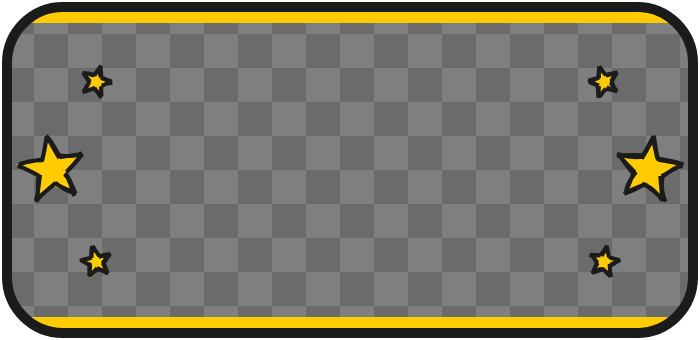
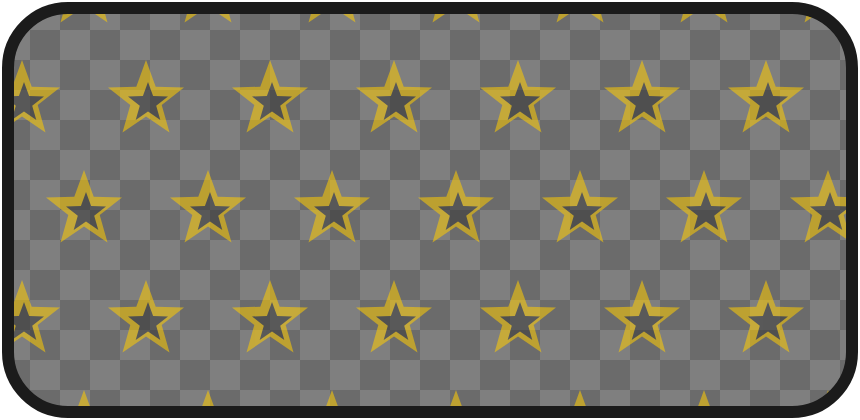
Bulletin: BCT badge with a star grid, sized for the longer countdown line
Claude-Session: https://claude.ai/code/session_01Fhrc3njGf4vqRLHJnLcqDJ

diff --git a/bulletin/bg/bct.html b/bulletin/bg/bct.html
@@ -1,28 +1,31 @@
 <!doctype html><html><head><meta charset="utf-8">
-<style>html,body{margin:0;background:transparent}svg{display:block}</style>
-<script src="node_modules/roughjs/bundled/rough.js"></script></head><body>
-<svg id="s" xmlns="http://www.w3.org/2000/svg" width="700" height="340" viewBox="0 0 700 340"></svg>
+<style>@font-face{font-family:LG;src:url(node_modules/@fontsource/luckiest-guy/files/luckiest-guy-latin-400-normal.woff2)}
+html,body{margin:0;background:transparent}svg{display:block}
+#t{position:absolute;left:0;top:0;width:860px;height:420px;box-sizing:border-box;padding:40px;display:none;flex-direction:column;justify-content:center;align-items:center;font-family:LG;line-height:0.95*1.2;text-align:center}
+</style></head><body>
+<svg id="s" xmlns="http://www.w3.org/2000/svg" width="860" height="420" viewBox="0 0 860 420"></svg>
+<div id="t"><div style="font-size:66.7px;color:#fff;line-height:1.1">LEWIS LEAVES FOR<br>BASIC TRAINING IN</div><div style="font-size:133px;color:#FFCC01;line-height:1.1">66 DAYS</div></div>
 <script>
-const NS='http://www.w3.org/2000/svg', svg=document.getElementById('s'), rc=rough.svg(svg);
+const NS='http://www.w3.org/2000/svg', svg=document.getElementById('s');
 const el=(n,a)=>{const e=document.createElementNS(NS,n);for(const k in a)e.setAttribute(k,a[k]);return e;};
-const W=700,H=340,R=56,IN=7;
+const W=860,H=420,R=60,IN=8;
 const defs=el('defs',{}); svg.appendChild(defs);
 const cp=el('clipPath',{id:'c'}); cp.appendChild(el('rect',{x:IN,y:IN,width:W-2*IN,height:H-2*IN,rx:R})); defs.appendChild(cp);
-const pat=el('pattern',{id:'chk',width:68,height:68,patternUnits:'userSpaceOnUse'});
-pat.appendChild(el('rect',{width:68,height:68,fill:'#000','fill-opacity':0.5}));
-pat.appendChild(el('rect',{width:34,height:34,fill:'#000','fill-opacity':0.16}));
-pat.appendChild(el('rect',{x:34,y:34,width:34,height:34,fill:'#000','fill-opacity':0.16}));
+const S=60; const pat=el('pattern',{id:'chk',width:S,height:S,patternUnits:'userSpaceOnUse'});
+pat.appendChild(el('rect',{width:S,height:S,fill:'#000','fill-opacity':0.5}));
+pat.appendChild(el('rect',{width:S/2,height:S/2,fill:'#000','fill-opacity':0.16}));
+pat.appendChild(el('rect',{x:S/2,y:S/2,width:S/2,height:S/2,fill:'#000','fill-opacity':0.16}));
 defs.appendChild(pat);
 const g=el('g',{'clip-path':'url(#c)'}); svg.appendChild(g);
 g.appendChild(el('rect',{x:0,y:0,width:W,height:H,fill:'url(#chk)'}));
-// gold stripe top and bottom
-g.appendChild(el('rect',{x:0,y:IN,width:W,height:16,fill:'#FFCC01'}));
-g.appendChild(el('rect',{x:0,y:H-IN-16,width:W,height:16,fill:'#FFCC01'}));
-let seed=9; const rnd=()=>{seed=(seed*16807)%2147483647;return (seed-1)/2147483646;};
-function star(cx,cy,r,rot){const p=[];for(let i=0;i<10;i++){const rr=i%2?r*0.42:r,a=-Math.PI/2+rot+i*Math.PI/5;p.push([cx+Math.cos(a)*rr,cy+Math.sin(a)*rr]);}
-  svg.appendChild(rc.polygon(p,{fill:'#FFCC01',fillStyle:'solid',stroke:'#1b1b1b',strokeWidth:4,roughness:1.1,seed:Math.floor(rnd()*1e4)}));}
-star(52,170,34,-0.15); star(648,170,34,0.15);
-star(96,82,16,0.3); star(604,82,16,-0.3); star(96,262,16,-0.2); star(604,262,16,0.2);
-svg.appendChild(el('rect',{x:IN,y:IN,width:W-2*IN,height:H-2*IN,rx:R,fill:'none',stroke:'#1b1b1b','stroke-width':10}));
+const pts=(cx,cy,r,ir)=>{let p=[];for(let i=0;i<10;i++){const rr=i%2?ir:r,a=-Math.PI/2+i*Math.PI/5;p.push((cx+Math.cos(a)*rr).toFixed(1)+','+(cy+Math.sin(a)*rr).toFixed(1));}return p.join(' ');};
+const stars=el('g',{opacity:0.55}); g.appendChild(stars);
+const dx=124, dy=110;
+for(let row=0;row<5;row++){ const y=-10+row*dy; const off=row%2?dx/2:0;
+  for(let x=-40+off;x<W+60;x+=dx){
+    stars.appendChild(el('polygon',{points:pts(x,y,40,16.5),fill:'#FFCC01'}));
+    stars.appendChild(el('polygon',{points:pts(x+2,y+3,21,8.6),fill:'#3a3a3a'}));
+  }}
+svg.appendChild(el('rect',{x:IN,y:IN,width:W-2*IN,height:H-2*IN,rx:R,fill:'none',stroke:'#1b1b1b','stroke-width':12}));
 document.title='ready';
 </script></body></html>
